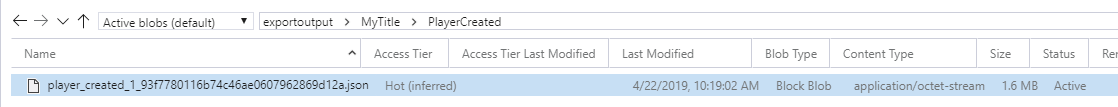
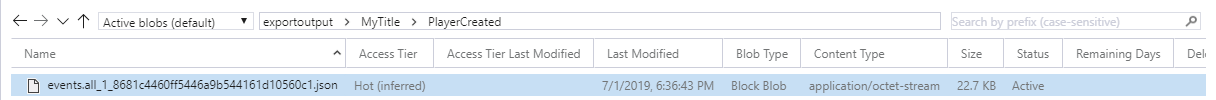
Updating event archive v2 docs (#712)
* Updating event archive v2 docs

* renaming v2 to preview

diff --git a/playfab-docs/features/analytics/metrics/event-archiving-v2.md b/playfab-docs/features/analytics/metrics/event-archiving-v2.md
@@ -3,7 +3,7 @@ title: Event Archiving V2
 author: mafonten
 description: Shows step-by-step how to configure PlayFab event archiving from scratch to output data to Azure Blob Storage or Amazon S3 bucket.
 ms.author: mafonten
-ms.date: 04/18/2019
+ms.date: 07/01/2019
 ms.topic: article
 ms.prod: playfab
 keywords: playfab, analytics, metrics, events
@@ -13,13 +13,13 @@ ms.localizationpriority: medium
 # Event Archiving (preview)
 
 > [!IMPORTANT]
-> This feature is currently in **Private Preview**.  
+> This feature is currently in **Private Preview**.
 >
-> It is provided to give you an early look at an upcoming feature, and to allow you to give us feedback while it is still in development.  
+> It is provided to give you an early look at an upcoming feature, and to allow you to give us feedback while it is still in development.
 >
 > Access to this feature is restricted to select titles. If you are interested in trying it, please contact us at [helloplayfab@microsoft.com](mailto:helloplayfab@microsoft.com).
 
- Event Archive (preview) can be used to get your events out of PlayFab and into your Azure Blob Storage (ABS) account or Amazon Simple Storage Service (S3) bucket. Event Archive allows you to decide which of your title’s events to export, and how often. The events are dropped in [JSONL format](#event-output-format), with each event in its own individual file.
+ Event Archive (preview) can be used to get your events out of PlayFab and into your Azure Blob Storage (ABS) account or Amazon Simple Storage Service (S3) bucket. Event Archive allows you to decide which of your title’s events to export, and how often. The events are dropped in [JSONL format](#event-output-format), all combined in a single file.
 
 This tutorial shows you how to configure event archiving from scratch.
 
@@ -33,7 +33,7 @@ This tutorial shows you how to configure event archiving from scratch.
 
 ### Viewing Your Events
 
-Before you begin, visit the [Event History](event-history.md) section to learn how to find all the events your title has sent. Event archiving allows you to select which of those events you wish to export. You may export any standard and custom events, up to 250 total per archive (see [Limits and Notes](#limits-and-notes)).
+Before you begin, visit the [Event History](event-history.md) section to learn how to find all the events your title has sent. Event archiving allows you to select which of those events you wish to export. You may export any standard and custom events.
 
 #### Example events
 
@@ -41,12 +41,12 @@ Before you begin, visit the [Event History](event-history.md) section to learn h
 
 #### Event format
 
-![Event Archive - Event History - Sample Event](media/tutorials/event-archive-event-history-sample-event.png)  
+![Event Archive - Event History - Sample Event](media/tutorials/event-archive-event-history-sample-event.png)
 
 ### Event Output Format
 
 The files we output to your storage system have a maximum size of 1GB. They are given the following naming format:
-`{eventName}_{unique identifier}.json`, where the unique identifier is `{digit(s)}_{guid}`. The files contain a list of events formatted in JSONL (see example below). The contents of the JSON should match what you see when digging into events in event history.
+`events.all_{unique identifier}.json`, where the unique identifier is `{digit(s)}_{guid}`. The files contain a list of events formatted in JSONL (see example below). The contents of the JSON should match what you see when digging into events in event history.
 
 > [!NOTE]
 > Events are separated by newline characters rather than commas. Learn more about the JSONL format here: <http://jsonlines.org/.>
@@ -55,33 +55,21 @@ The files we output to your storage system have a maximum size of 1GB. They are 
 
 ```json
 {
-    "Export": {
-        "ver": "3.0",
-        "name": "player_logged_in",
-        "time": "2019-04-18T00:48:31.6936829Z",
-        "popSample": 0.0,
-        "iKey": "",
-        "flags": 1,
-        "tags": "{}",
-        "EventName": "player_logged_in",
-        "Platform": "AndroidDevice",
-        "PlatformUserId": "794048642ecd3e03",
-        "Location_ContinentCode": "NA",
-        "Location_CountryCode": "US",
-        "Location_City": "Benicia",
+    "EventData": {
+        "PlayFabEnvironment": {
+            ...
+        },
         "EventNamespace": "com.playfab",
         "EntityType": "player",
+        "SourceType": "BackEnd",
+        "EventName": "player_created",
+        "Timestamp": "2019-07-01T18:57:41.8536624Z",
+        "EntityId": "C721B22EA883D00E",
+        "TitleId": "4B50EC3D",
+        "EventId": "4ef5df95861740d87a5dcbf1424a78efc",
         "Source": "PlayFab",
-        "TitleId": "",
-        "EntityId": "",
-        "EventId": "",
-        "Timestamp": "2019-04-18T00:48:28.5332232Z"
-    }
-    "Export": {
-        "ver": "3.0",
-        "name": "player_logged_in",
-        ...
-        "Timestamp": "2019-04-18T00:48:28.5332232Z"
+        "PublisherId": "93D92F3F10FE4848",
+        "Created": "2019-07-01T18:57:41.8536624Z"
     }
 }
 ```
@@ -96,8 +84,8 @@ The frequency you select will affect how often your data is output. A frequency 
 ### Limits and Notes
 
 - Event archiving does not support archiving historical data. It only archives data starting when the archive is created.
-- There is a limit of 250 events per archive and 3 *active* archives per title. You may request to have this limit increased by reaching out to the PlayFab team.
-- Event archiving V2 does not support subdividing outputs by date (e.g. /2019/04/22/my_event_1.json).
+- There is a limit of 3 *active* archives per title. You may request to have this limit increased by reaching out to the PlayFab team.
+- Event archiving (Preview) does not support subdividing outputs by date (e.g. /2019/04/22/events.all_1.json).
 - Event archiving to Azure blob storage does not support SAS tokens.
 - Event archiving does not guarantee that each record will be written only once. The output may contain duplicates if a failure (rare) occurs during an export.
 
@@ -127,26 +115,24 @@ This brings you to a **New Event Archive** page where you:
     - Access key id: use the one you obtained while configuring access to the Amazon account.
     - Secret Key: use the one you obtained while configuring access to the Amazon account.
 - Choose which events you wish to archive, or archive all events.
-
->[!NOTE]
-> Any new events sent by your titles will *not* automatically be exported. You will have to come back and add the event to your archive.
-
-- To choose all events, select **Archive all events up to today** (see [Limits and Notes](#limits-and-notes)).
+  - To choose all events, select **Archive all events**
   - To select *specific* events:
-    - Un-select **Archive all events up to today**.
+    - Un-select **Archive all events**.
     - Select **+ Add**.
     - Select your event from the drop-down.
+    > [!NOTE]
+    > If you select "Archive All", any new events types sent by your titles will also automatically be exported.
   - Select the frequency at which you wish to archive your events.
   - Select whether you want this archive to be active or inactive (aka **enabled**/**disabled**). By default, new archives are set to active.
 
-Select the **Save Settings** button when everything is in place. **This operation can take up to a couple minutes, depending on how many events you are archiving.**
+Select the **Save Settings** button when everything is in place.
 
 > [!NOTE]
 > The same flow applies for editing an existing event archive. **Your key will be encrypted and you can never view it again.**
 
 #### Azure Blob Storage Example
 
-![New Archive Blob Storage UI](media/tutorials/event-archive-azure-blob-ui.png)  
+![New Archive Blob Storage UI](media/tutorials/event-archive-azure-blob-ui.png)
 
 ## Testing your Archive
 
@@ -157,7 +143,7 @@ To ensure everything is working properly, make sure to post some events. Wait fo
 ## Monitoring your Archives
 
 Once your archive is created, you will see it on the home page of your event archives, as seen below.
-![Archive Index Page](media/tutorials/event-archive-index-page.png)  
+![Archive Index Page](media/tutorials/event-archive-index-page.png)
 
 Your archive will show as **Pending** until data starts being exported, at which point it will update to **Succeeded** or **Failed**. This page also shows you how much data was exported by a given archive.
 
@@ -165,6 +151,6 @@ Your archive will show as **Pending** until data starts being exported, at which
 
 You can see the status of a given event by going to the archive details page. The status and failures will be displayed on the archive details page below the events, as shown below.
 
-![Archive No Failures](media/tutorials/event-archive-failures.png)  
+![Archive No Failures](media/tutorials/event-archive-failures.png)
 
 Selecting the **FAILURES** icon will display the error report. A green check mark indicates that there are no ongoing errors and your data is archiving properly.
